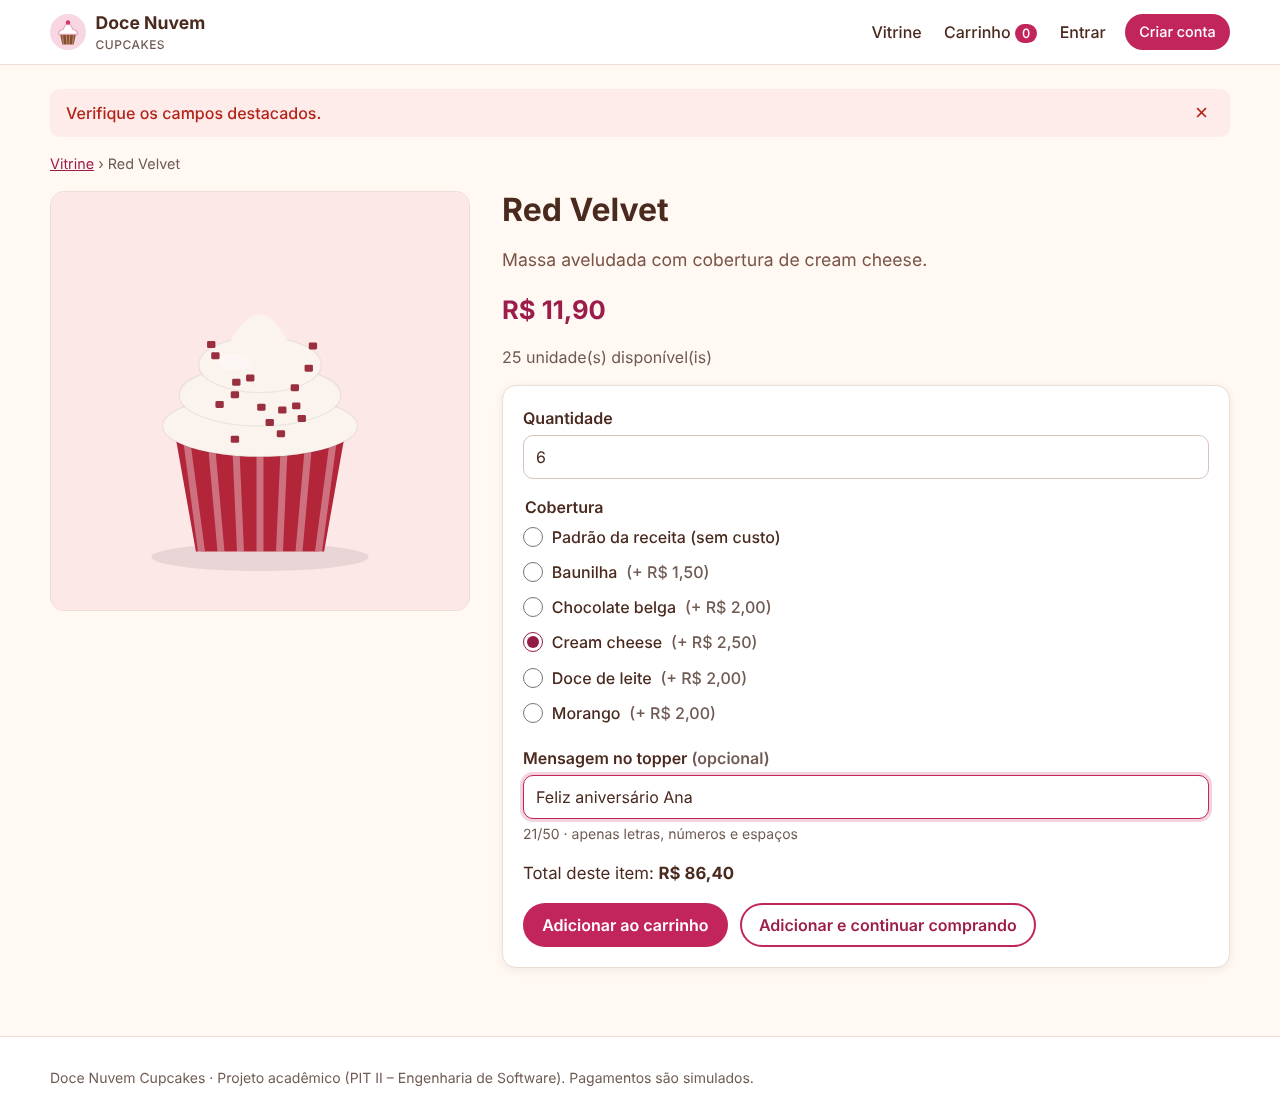
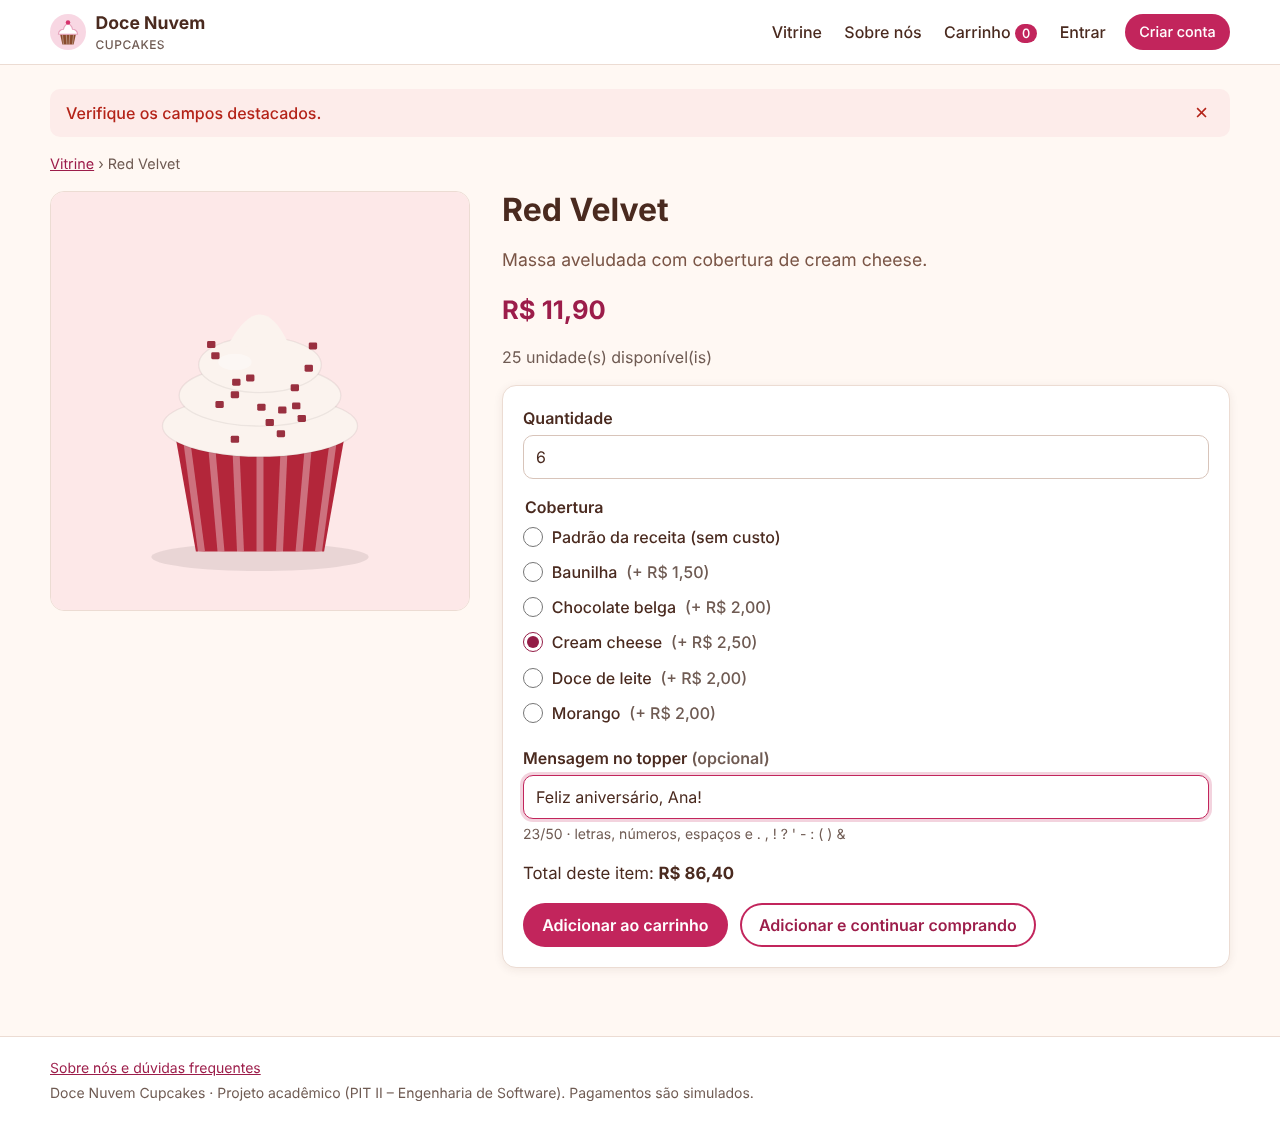
Testes das correções, laudo de qualidade e documentação da versão 1.1

diff --git a/tests/e2e/fluxo_completo.py b/tests/e2e/fluxo_completo.py
@@ -65,18 +65,33 @@ def cliente(browser):
     page.goto(f"{BASE}/produto/3")
     page.fill("#mensagem", "Parabéns!!! <3")
     page.click("button:has-text('Adicionar ao carrinho')")
-    expect(page.locator(".field-error")).to_contain_text("50 letras")
+    expect(page.locator(".field-error")).to_contain_text("50 caracteres")
     shot(page, "03-produto-erro-mensagem")
 
-    # US03 — personalização válida
+    # US03 — personalização válida (D01: pontuação comum como "!" e "," é aceita)
     page.fill("#quantidade", "6")
     page.check("label:has-text('Cream cheese') input")
-    page.fill("#mensagem", "Feliz aniversário Ana")
+    page.fill("#mensagem", "Feliz aniversário, Ana!")
     expect(page.locator("#line-total")).to_have_text(re.compile(r"86,40"))
     shot(page, "04-produto-personalizacao")
     page.click("button:has-text('Adicionar ao carrinho')")
     expect(page.locator(".flash-success")).to_contain_text("adicionado")
+    expect(page.locator(".cart-product")).to_contain_text("Feliz aniversário, Ana!")
     shot(page, "05-carrinho")
+
+    # D02 — quantidades do carrinho atualizam sozinhas (sem clicar em botão)
+    expect(page.locator("[data-cart-update]")).to_be_hidden()
+    page.fill(".qty-input >> nth=0", "7")
+    expect(page.locator("td[data-label='Subtotal'] >> nth=0")).to_have_text(re.compile(r"100,80"))
+    expect(page.locator(".nav-cart .badge")).to_have_text("7")
+    page.fill(".qty-input >> nth=0", "6")
+    expect(page.locator("td[data-label='Subtotal'] >> nth=0")).to_have_text(re.compile(r"86,40"))
+
+    # S01 — página Sobre nós com áreas de entrega e dúvidas frequentes
+    page.click(".main-nav >> text=Sobre nós")
+    expect(page.locator("h1")).to_have_text("Sobre a Doce Nuvem")
+    expect(page.locator("#onde-entregamos ~ table, .table")).to_contain_text("Votorantim")
+    page.goto(f"{BASE}/carrinho")
 
     # Checkout exige login → volta ao checkout depois de entrar
     page.click("a:has-text('Finalizar pedido')")

diff --git a/tests/Integration/HttpTest.php b/tests/Integration/HttpTest.php
@@ -102,6 +102,34 @@ final class HttpTest extends DatabaseTestCase
         self::assertSame(404, $this->request('GET', '/nao-existe')['status']);
     }
 
+    /** S01 do laudo: página institucional com dados vindos do banco. */
+    public function testPaginaSobreNosMostraEntregaEDuvidas(): void
+    {
+        $res = $this->request('GET', '/sobre');
+        self::assertSame(200, $res['status']);
+        self::assertStringContainsString('Sobre a Doce Nuvem', $res['body']);
+        self::assertStringContainsString('Dúvidas frequentes', $res['body']);
+        self::assertStringContainsString('Votorantim', $res['body'], 'zonas de entrega do banco');
+        self::assertStringContainsString('href="/sobre"', $this->request('GET', '/')['body'], 'link no menu');
+    }
+
+    /** D01 do laudo: mensagem com pontuação é aceita pelo servidor; HTML continua recusado. */
+    public function testMensagemComPontuacaoEntraNoCarrinho(): void
+    {
+        $page = $this->request('GET', '/produto/3');
+        $ok = $this->request('POST', '/carrinho/adicionar', [
+            '_token' => $this->token($page['body']), 'produto_id' => 3, 'quantidade' => 1, 'mensagem' => 'Parabéns, Ana!',
+        ]);
+        self::assertStringEndsWith('/carrinho', (string) $ok['location']);
+        self::assertStringContainsString('Parabéns, Ana!', $this->request('GET', '/carrinho')['body']);
+
+        $page = $this->request('GET', '/produto/3');
+        $bad = $this->request('POST', '/carrinho/adicionar', [
+            '_token' => $this->token($page['body']), 'produto_id' => 3, 'quantidade' => 1, 'mensagem' => '<b>oi</b>',
+        ]);
+        self::assertStringEndsWith('/produto/3', (string) $bad['location']);
+    }
+
     public function testApiDaVitrineRespondeJson(): void
     {
         $r = $this->request('GET', '/api/produtos?pagina=2');

diff --git a/docs/situacao-3/laudo-de-qualidade.md b/docs/situacao-3/laudo-de-qualidade.md
@@ -1,0 +1,101 @@
+# Laudo de qualidade — Doce Nuvem Cupcakes
+
+**Sistema:** Doce Nuvem Cupcakes · **Versão testada:** v1.0 · **Versão corrigida:** v1.1
+**Responsável:** Jonathan Soares Guimarães · **Testes com usuários:** novembro de 2026
+**Ambiente testado:** site publicado (https://docenuvem-cupcakes.ifree.page), no celular ou no computador
+**Testadores:** 5 pessoas, identificadas aqui pelas iniciais (nomes completos no documento da atividade)
+
+## 1. Método
+
+Cada testador recebeu o link do site e um roteiro curto (cerca de 10 minutos) com o fluxo principal do cliente:
+
+1. Criar uma conta.
+2. Escolher 2 cupcakes, personalizar um com mensagem e colocar no carrinho.
+3. Cadastrar um endereço de entrega.
+4. Finalizar o pedido: primeiro com o cartão recusado (`4000 0000 0000 0002`), depois com o aprovado (`4111 1111 1111 1111`).
+5. Conferir o pedido em "Meus pedidos".
+
+Depois, cada um respondeu: o que deu erro, o que ficou confuso, uma nota de 0 a 10 para a facilidade de uso e sugestões de melhoria.
+
+## 2. Resumo
+
+| Indicador | Valor |
+|---|---|
+| Testadores que concluíram o fluxo de compra | 5 de 5 |
+| Funcionalidades avaliadas | Cadastro (US11), vitrine (US01), personalização (US03), carrinho e total (US04), endereço (US15), pagamento com cartão aprovado e recusado (US05), agendamento (US06), Meus pedidos (US07) |
+| Defeitos encontrados | 2 (1 funcional, 1 de usabilidade) |
+| Defeitos corrigidos | 2 de 2 |
+| Sugestões recebidas / adotadas | 1 / 1 |
+| Nota média de facilidade de uso | **9,2 de 10** (9, 8, 10, 10 e 9) |
+| Testes automatizados após as correções | **65 testes, 220 verificações, 0 falhas** (eram 63 e 206) + teste ponta a ponta sem erros |
+
+## 3. Respostas dos testadores
+
+| Testador | Nota | Erro encontrado | Ponto confuso / sugestão |
+|---|---|---|---|
+| G. O. | 9 | A mensagem não aceitou o ponto de exclamação "!" | Nada confuso, sem sugestões |
+| E. A. | 8 | — | As quantidades do carrinho só mudam depois de clicar em "Atualizar quantidades"; deveria ser automático |
+| H. S. | 10 | Nenhum ("gostei de tudo") | Nenhum |
+| P. A. | 10 | Nenhum (pedido de 3 cupcakes concluído) | Nenhum |
+| P. G. | 9 | Nenhum | Faltam informações sobre a empresa; uma explicação mais detalhada passaria mais credibilidade |
+
+## 4. Defeitos e correções
+
+Gravidade: **Alta** (impede a compra ou causa erro), **Média** (atrapalha, mas há contorno) ou **Baixa** (incômodo de uso, visual ou texto).
+
+| ID | Relatado por | Funcionalidade | Problema | Gravidade | Causa | Correção (v1.1) | Status |
+|---|---|---|---|---|---|---|---|
+| D01 | G. O. | US03 – mensagem no topper | "Parabéns, Ana!" era recusada: a mensagem só aceitava letras, números e espaços | Média | A regra RN#1 da US03 ("até 50 caracteres alfanuméricos") foi implementada ao pé da letra e ficou restritiva demais para mensagens reais | A regra foi revisada: agora aceita também `. , ! ? ' - : ( ) &`. Continuam bloqueados `< > " / \` (proteção contra HTML/script) e emojis (não saem na impressão do topper). A dica abaixo do campo e a mensagem de erro mostram os caracteres aceitos | ✅ Corrigido |
+| D02 | E. A. | US03/US04 – carrinho | Ao mudar a quantidade, subtotal e total só eram recalculados depois de clicar em "Atualizar quantidades" | Baixa | A atualização dependia do envio manual do formulário | O carrinho é enviado em segundo plano 0,5 s depois que a quantidade muda; tabela, resumo e contador do menu se atualizam sem recarregar a página. O cálculo continua no servidor. Sem JavaScript, o botão antigo continua disponível | ✅ Corrigido |
+
+## 5. Sugestões de melhoria
+
+| ID | Sugerido por | Sugestão | Decisão | O que foi feito |
+|---|---|---|---|---|
+| S01 | P. G. | Explicação mais detalhada sobre a empresa, para passar credibilidade a quem não a conhece | Adotada | Nova página **Sobre nós** (menu e rodapé): quem somos, compra segura (HTTPS, senha criptografada, cartão não armazenado), como funciona, regiões e taxas de entrega e dúvidas frequentes. Horários, taxas e regiões vêm do banco, então mudam junto com as configurações do gerente |
+
+## 6. Funcionalidades não testadas ou não implementadas
+
+| Funcionalidade | Motivo |
+|---|---|
+| Filtros da vitrine (US02), Pix e boleto (US05) | Fora do roteiro curto enviado; cobertas pelos testes automatizados e pelo teste ponta a ponta |
+| Área do gerente: status do pedido, catálogo, relatórios (US07, US09, US10) | Fora do roteiro; cobertas pelos testes automatizados e pelo teste ponta a ponta |
+| US12 Recuperar senha | Não implementada (exige envio de e-mail) |
+| US08 Notificações push/e-mail | Não implementada; a página do pedido se atualiza sozinha |
+| US13 Avaliações / US14 Cupons | Não implementadas (prioridade C, no backlog) |
+
+## 7. Evidências
+
+Os prints de "antes" reproduzem no ambiente de desenvolvimento, com a versão 1.0, o que os testadores relataram. Os de "depois" foram tirados com a versão 1.1.
+
+**D01, antes:** a mensagem "Parabéns, Ana!" é recusada.
+
+![D01 antes](evidencias/d01-antes.png)
+
+**D01, depois:** a mesma mensagem entra no carrinho.
+
+![D01 depois](evidencias/d01-depois.png)
+
+**D02, antes:** a quantidade foi mudada para 3, mas o subtotal continua R$ 8,90 até clicar no botão.
+
+![D02 antes](evidencias/d02-antes.png)
+
+**D02, depois:** com a quantidade em 3, subtotal (R$ 29,70), resumo e contador do menu se atualizam sozinhos; o botão deu lugar a um aviso.
+
+![D02 depois](evidencias/d02-depois.png)
+
+**S01, antes:** o menu não tinha nenhuma página sobre a empresa.
+
+![S01 antes](evidencias/s01-antes.png)
+
+**S01, depois:** item "Sobre nós" no menu e a nova página.
+
+![S01 depois: menu](evidencias/s01-depois-menu.png)
+
+![S01 depois: página](evidencias/s01-depois.png)
+
+No celular: [carrinho](evidencias/d02-depois-celular.png) · [Sobre nós](evidencias/s01-depois-celular.png).
+
+## 8. Conclusão
+
+Os 5 testadores concluíram o fluxo completo de compra, inclusive a recusa e a aprovação do cartão, e deram nota média de 9,2 de 10 para a facilidade de uso. Não houve defeito que impedisse a compra. Os dois problemas relatados (pontuação na mensagem e atualização manual do carrinho) foram corrigidos, e a sugestão de mais informações sobre a empresa foi adotada com a página "Sobre nós". Cada correção ganhou testes automatizados (65 testes, 0 falhas). As histórias de prioridade C (US08, US12, US13, US14) seguem no backlog da próxima versão.

diff --git a/docs/situacao-3/roteiros-dos-videos.md b/docs/situacao-3/roteiros-dos-videos.md
@@ -31,10 +31,14 @@ O material da aula traz durações conflitantes. Confirme com o tutor; os roteir
 
 ## Vídeo 2: solução atualizada (até 5 min)
 
-| Tempo | Conteúdo |
-|---|---|
-| 0:00–0:20 | "Neste vídeo mostro as mudanças feitas depois dos testes com 5 colegas." |
-| 0:20–0:50 | Mostre o laudo de qualidade (quantos defeitos e sugestões, quantos corrigidos). |
-| 0:50–3:50 | Para cada correção principal (3 a 5): **antes** (print do testador) → **depois** (sistema funcionando). Diga quem relatou e o que mudou. |
-| 3:50–4:30 | Sugestões não adotadas ou no backlog, e por quê. |
-| 4:30–5:00 | Testes automatizados passando e commits no GitHub. Encerramento. |
+**Deixe abertos antes de gravar:** o [laudo de qualidade](laudo-de-qualidade.md) no GitHub, a pasta [evidencias](evidencias/), o site publicado (já com a versão 1.1) e a página de commits do repositório. Faça um pedido de teste com 1 cupcake no carrinho antes de começar.
+
+| Tempo | Tela | Fala |
+|---|---|---|
+| 0:00–0:20 | Página inicial do site | "Olá, eu sou o Jonathan. Neste vídeo mostro a versão 1.1 do Doce Nuvem Cupcakes, com as mudanças feitas a partir dos testes com 5 usuários." |
+| 0:20–0:55 | Laudo, seções 2 e 3 | "Os 5 testadores fizeram o fluxo completo: criaram a conta, montaram o carrinho, cadastraram o endereço e pagaram, primeiro com o cartão recusado e depois com o aprovado. Todos concluíram a compra, e a nota média de facilidade de uso foi 9,2 de 10. Foram 2 defeitos e 1 sugestão, e os três foram resolvidos." |
+| 0:55–1:55 | `d01-antes.png` → site: produto, mensagem "Parabéns, Ana!", adicionar | "O primeiro defeito, o D01, foi relatado pelo Gustavo: a mensagem do topper não aceitava ponto de exclamação. A regra do PIT I dizia 'caracteres alfanuméricos' e eu implementei ao pé da letra, o que ficou restritivo demais. Revisei a regra: agora aceita a pontuação comum, como vírgula, exclamação e interrogação. Continuo bloqueando sinais de menor e maior, aspas e barras, por segurança contra injeção de HTML, e emojis, que não saem na impressão do topper. Vejam: 'Parabéns, Ana!' entra no carrinho." |
+| 1:55–2:55 | `d02-antes.png` → site: carrinho, mudar a quantidade de 1 para 3 | "O D02 veio da Evellen: no carrinho, ao mudar a quantidade, o total só mudava depois de clicar em 'Atualizar quantidades'. Agora a atualização é automática: mudo para 3 e, meio segundo depois, o subtotal, o resumo e o contador do menu se atualizam, sem recarregar a página. O cálculo continua no servidor, que é quem confere preço e estoque. E se o navegador estiver sem JavaScript, o botão antigo continua funcionando." |
+| 2:55–3:55 | `s01-antes.png` → site: clicar em "Sobre nós", rolar a página, abrir uma dúvida | "A sugestão S01 foi do Paulo: faltavam informações sobre a empresa para passar credibilidade. Criei a página 'Sobre nós', no menu e no rodapé, com quem somos, como a compra é protegida, como funciona o pedido, as regiões e taxas de entrega e as dúvidas frequentes. Horários, taxas e regiões vêm do banco de dados: se o gerente mudar a configuração, esta página muda junto." |
+| 3:55–4:25 | Laudo, seção 6 | "Ficaram fora do roteiro curto os filtros, o Pix e o boleto e a área do gerente, que estão cobertos pelos testes automatizados. Recuperação de senha, notificações, avaliações e cupons são prioridade C e seguem no backlog." |
+| 4:25–5:00 | `docs/testes/resultado-phpunit.txt` e página de commits do GitHub | "Cada correção ganhou testes automatizados: agora são 65 testes, todos passando. No GitHub há um commit para cada correção, e o laudo com as evidências está na pasta docs. Obrigado!" |

diff --git a/docs/testes/README.md b/docs/testes/README.md
@@ -50,7 +50,7 @@ python tests/e2e/fluxo_completo.py
 
 ## 3. Resultado da última execução
 
-**63 testes, 206 verificações (asserções), 0 falhas.** Saída completa em [resultado-phpunit.txt](resultado-phpunit.txt).
+**65 testes, 220 verificações (asserções), 0 falhas** (versão 1.1, após as correções do [laudo de qualidade](../situacao-3/laudo-de-qualidade.md); a versão 1.0 tinha 63 testes e 206 verificações). Saída completa em [resultado-phpunit.txt](resultado-phpunit.txt).
 
 O teste ponta a ponta percorreu os fluxos do cliente e do gerente **sem erros de JavaScript** e gerou as capturas em [`docs/ihc/telas/`](../ihc/telas/).
 
@@ -70,6 +70,9 @@ O teste ponta a ponta percorreu os fluxos do cliente e do gerente **sem erros de
 | US11 senha forte, hash, e-mail único | `ValidatorTest::testRegraDeSenha`, `UserAndAddressTest::testSenhaGuardadaComoHash`, `testEmailUnico` |
 | US15 CEP, endereço só do dono | `ValidatorTest::testCep`, `testEnderecoComErros`, `UserAndAddressTest::testEnderecoPertenceAoDono`, `CheckoutServiceTest::testNaoUsaEnderecoDeOutroCliente` |
 | Estoque na compra (transação) | `CheckoutServiceTest::testEstoqueInsuficienteNaoCriaPedido`, `OrderTest::testCancelamentoDevolveEstoque` |
+| D01 (laudo) mensagem com pontuação comum | `ValidatorTest::testMensagemDoCupcake`, `HttpTest::testMensagemComPontuacaoEntraNoCarrinho`, E2E |
+| D02 (laudo) carrinho atualiza sozinho | E2E (quantidade 7 → subtotal R$ 100,80 sem clicar em botão) |
+| S01 (laudo) página Sobre nós | `HttpTest::testPaginaSobreNosMostraEntregaEDuvidas`, E2E |
 | Segurança: CSRF, XSS, login genérico | `HttpTest::testPostSemTokenCsrfERecusado`, `testCadastroEscapaHtml`, `testLoginInvalidoMostraMensagemGenerica` |
 
 ## 5. Limitações conhecidas (para o laudo)

diff --git a/docs/situacao-3/checklist-de-entrega.md b/docs/situacao-3/checklist-de-entrega.md
@@ -5,20 +5,20 @@
 - [x] UML revisada: casos de uso, classes, sequência, atividades e estados ([uml/](../uml/README.md))
 - [x] IHC: princípios, mapa de navegação, wireframes, mensagens de erro e telas ([ihc/](../ihc/README.md))
 - [x] Banco: conceitual, lógico normalizado e físico, mais dicionário de dados ([banco-de-dados/](../banco-de-dados/README.md))
-- [ ] Repositório criado no GitHub e documentação enviada → **link no documento da atividade**
+- [x] Repositório criado no GitHub e documentação enviada → **link no documento da atividade**
 
 ## Situação 2: desenvolvimento
 - [x] Front-end em HTML, CSS e JavaScript (responsivo)
 - [x] Back-end em PHP no padrão MVC
 - [x] Testes automatizados (PHPUnit), funcionais, com erros tratados
 - [x] Manual de uso ([manual-do-usuario.md](../manual-do-usuario.md))
-- [ ] Site publicado na hospedagem → **link da solução em funcionamento**
+- [x] Site publicado na hospedagem → **link da solução em funcionamento**
 - [ ] Vídeo narrado (≥ 5 min) → **link do vídeo**
 
 ## Situação 3: testes e validação
 - [x] Formulário e roteiro para os testadores ([roteiro-e-formulario-de-teste.md](roteiro-e-formulario-de-teste.md))
-- [ ] 5 testadores (colegas ou profissionais), com as fichas preenchidas e prints
-- [ ] Laudo de qualidade preenchido ([modelo](laudo-de-qualidade-modelo.md))
-- [ ] Correções feitas, testes rodando e commits no GitHub
+- [x] 5 testadores, com as fichas preenchidas no documento da atividade
+- [x] Laudo de qualidade preenchido ([laudo](laudo-de-qualidade.md))
+- [x] Correções feitas e testes rodando (65 testes) · [ ] commits enviados ao GitHub
 - [ ] Vídeo da solução atualizada (≤ 5 min)
 - [ ] PDF com as 5 avaliações e o documento da atividade preenchido

diff --git a/docs/01-revisao-do-planejamento.md b/docs/01-revisao-do-planejamento.md
@@ -29,7 +29,7 @@ O PIT I definiu o produto (aplicativo de pedidos de cupcakes) em 15 histórias d
 | ID | História | Prior. PIT I | Prior. revisada | Status no PIT II |
 |---|---|---|---|---|
 | US01 | Visualizar vitrine | A | A | ✅ Implementada (14 cupcakes, indisponíveis sinalizados, paginação) |
-| US03 | Personalizar cupcakes no carrinho | A | A | ✅ Implementada (quantidade, cobertura, mensagem até 50 caracteres) |
+| US03 | Personalizar cupcakes no carrinho | A | A | ✅ Implementada (quantidade, cobertura, mensagem até 50 caracteres; na v1.1 a mensagem passou a aceitar pontuação comum — D01 do laudo) |
 | US04 | Calcular custo total | C | **A** | ✅ Implementada (itens + entrega + taxa de mínimo + urgência) |
 | US05 | Métodos de pagamento | A | A | ✅ Implementada **(simulada)** |
 | US06 | Data e horário de entrega | A | A | ✅ Implementada (expediente, antecedência, taxa de urgência) |
@@ -55,7 +55,7 @@ O PIT I definiu o produto (aplicativo de pedidos de cupcakes) em 15 histórias d
 | Rastreamento | < 5 s | A página consulta o status a cada 5 s. |
 | Segurança do pagamento | TLS e criptografia | O site deve ser publicado com HTTPS. O número do cartão **não é armazenado**, só os 4 últimos dígitos. |
 | Usabilidade/acessibilidade | — (novo) | Contraste adequado, foco visível, rótulos em todos os campos, mensagens de erro junto ao campo e alvos de toque ≥ 44 px. |
-| Manutenibilidade | — (novo) | Padrão MVC, regras de negócio em serviços testáveis e 63 testes automatizados. |
+| Manutenibilidade | — (novo) | Padrão MVC, regras de negócio em serviços testáveis e 65 testes automatizados (63 na v1.0). |
 
 ## 5. Artefatos produzidos nesta revisão
 

diff --git a/docs/manual-do-usuario.md b/docs/manual-do-usuario.md
@@ -19,6 +19,9 @@ Cartões de teste (o pagamento é **simulado**, nada é cobrado):
 
 ## Para o cliente
 
+### Conhecer a loja
+O menu **Sobre nós** (também no rodapé) mostra quem somos, como funciona o pedido, as **regiões e taxas de entrega** e as **dúvidas frequentes**.
+
 ### 1. Escolher cupcakes
 1. Na **Vitrine**, role a página. Mais cupcakes carregam sozinhos, ou clique em **Carregar mais**.
 2. Para filtrar, marque categorias à esquerda (no celular, ficam acima da lista). Marcando duas ou mais, aparecem só os cupcakes que atendem a **todas**, por exemplo "Veganos" + "Sem glúten".
@@ -26,12 +29,12 @@ Cartões de teste (o pagamento é **simulado**, nada é cobrado):
 
 ### 2. Personalizar e adicionar ao carrinho
 1. Clique no cupcake.
-2. Escolha a **quantidade**, a **cobertura** (algumas têm valor adicional) e, se quiser, uma **mensagem** de até 50 letras, números e espaços.
+2. Escolha a **quantidade**, a **cobertura** (algumas têm valor adicional) e, se quiser, uma **mensagem** de até 50 caracteres: letras, números, espaços e . , ! ? ' - : ( ) &. Emojis não são aceitos.
 3. O **total do item** atualiza na hora.
 4. Clique em **Adicionar ao carrinho** ou em **Adicionar e continuar comprando**.
 
 ### 3. Carrinho
-- Altere as quantidades e clique em **Atualizar quantidades**. Quantidade 0 remove o item.
+- Altere as quantidades: o subtotal e o resumo **se atualizam sozinhos**. Quantidade 0 remove o item. *(Se o navegador estiver com JavaScript desligado, aparece o botão **Atualizar quantidades**.)*
 - **Remover** tira o item.
 - Pedidos abaixo de R$ 50,00 pagam taxa de R$ 5,00. O carrinho avisa quanto falta.
 

diff --git a/README.md b/README.md
@@ -52,7 +52,7 @@ Cartão de teste aprovado: `4111 1111 1111 1111` · recusado: `4000 0000 0000 00
 
 ```bash
 composer install
-vendor/bin/phpunit --testdox     # 63 testes: unitários, integração (MySQL) e HTTP
+vendor/bin/phpunit --testdox     # 65 testes: unitários, integração (MySQL) e HTTP
 ```
 
 Detalhes, matriz de rastreabilidade e resultado em [docs/testes/](docs/testes/README.md).
@@ -68,8 +68,9 @@ Detalhes, matriz de rastreabilidade e resultado em [docs/testes/](docs/testes/RE
 | [Arquitetura](docs/arquitetura.md) | MVC, rotas, estrutura de pastas e segurança |
 | [Testes](docs/testes/README.md) | Estratégia (Modelo V), execução e rastreabilidade |
 | [Manual do usuário](docs/manual-do-usuario.md) | Passo a passo para cliente e gerente |
+| [Laudo de qualidade](docs/situacao-3/laudo-de-qualidade.md) | Testes com 5 usuários, defeitos, correções e evidências (versão 1.1) |
 | [Implantação](docs/implantacao.md) | Rodar localmente, GitHub e hospedagem |
-| [Situação 3](docs/situacao-3/) | Roteiro e formulário para testadores, modelo de laudo, roteiros dos vídeos e checklist |
+| [Situação 3](docs/situacao-3/) | Roteiro e formulário para testadores, laudo de qualidade com evidências, roteiros dos vídeos e checklist |
 
 ## Estrutura
 

diff --git a/docs/banco-de-dados/dicionario-de-dados.md b/docs/banco-de-dados/dicionario-de-dados.md
@@ -140,7 +140,7 @@ Itens de cada pedido, com a personalização escolhida. *(Histórias: US03)*
 | `nome_produto` | varchar(80) | não |  |  | Nome copiado no momento da compra |
 | `cobertura_id` | int(10) unsigned | sim | FK → coberturas.id |  | Cobertura escolhida (opcional) |
 | `nome_cobertura` | varchar(50) | sim |  |  | Nome da cobertura copiado |
-| `mensagem` | varchar(50) | sim |  |  | Mensagem do topper (até 50 caracteres alfanuméricos, RN#1 US03) |
+| `mensagem` | varchar(50) | sim |  |  | Mensagem do topper (até 50 caracteres: letras, números, espaços e pontuação comum; RN#1 US03 revisada na v1.1) |
 | `quantidade` | int(10) unsigned | não |  |  | Quantidade (> 0) |
 | `preco_unitario` | decimal(10,2) | não |  |  | Preço do cupcake + adicional da cobertura |
 | `subtotal` | decimal(10,2) | não |  |  | quantidade × preço unitário |

diff --git a/docs/ihc/README.md b/docs/ihc/README.md
@@ -82,7 +82,7 @@ Toda mensagem diz **o que aconteceu** e **o que fazer**, aparece **junto ao camp
 
 | Situação | Mensagem |
 |---|---|
-| Mensagem do topper com símbolo ou mais de 50 caracteres | A mensagem aceita até 50 letras, números e espaços (sem símbolos). |
+| Mensagem do topper com símbolo não permitido ou mais de 50 caracteres | A mensagem aceita até 50 caracteres: letras, números, espaços e . , ! ? ' - : ( ) &. *(regra revisada na v1.1 — D01 do laudo)* |
 | Quantidade acima do estoque | Escolha entre 1 e N unidades. |
 | Cupcake esgotado | Este sabor está indisponível no momento. Volte em breve! |
 | E-mail já cadastrado | Este e-mail já está cadastrado. Faça login ou use outro e-mail. |
